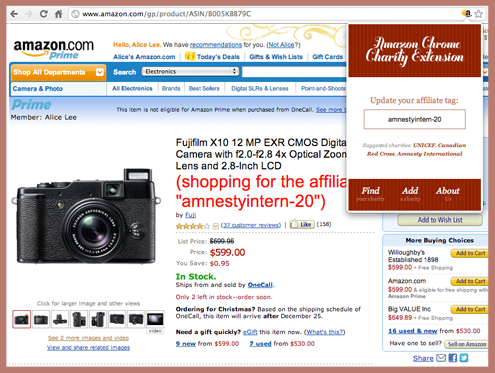
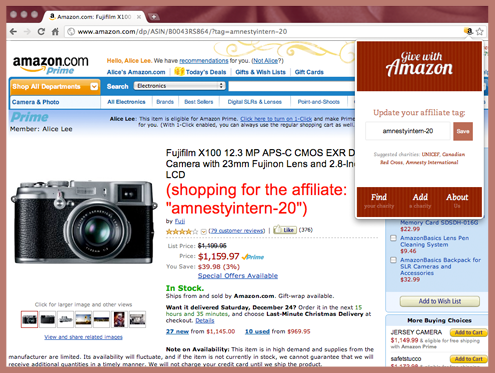
fixed popup stuff / edited copy+images to lobster

diff --git a/index.html b/index.html
@@ -2,7 +2,7 @@
 <html xmlns="http://www.w3.org/1999/xhtml">
 <head>
 <meta http-equiv="Content-Type" content="text/html; charset=UTF-8" />
-<title>Amazon Chrome Charity Extension</title>
+<title>Give with Amazon :: Chrome Charity Extension</title>
 <script type="text/javascript" src="http://use.typekit.com/evt4sfh.js"></script>
 <script type="text/javascript">try{Typekit.load();}catch(e){}</script>
 <link rel="stylesheet" href="slider.css" type="text/css"  />
@@ -18,9 +18,9 @@
     <img src="frontpg/header2.png" style="padding-top:50px;padding-bottom:15px;"/>
 
 	<div class="subheader">
-    	<p>Get your supporters to shop on Amazon as normal, and we help you donate a percentage of their purchases (usually 6-7%) back to your charity through <a style="color:white;" href="https://affiliate-program.amazon.com/">Amazon's affiliate program</a>! Automatically help raise money for your charities and organizations like UNICEF, Red Cross, and more - by shopping on Amazon like you normally would this holiday season. </p>
+    	<p>Get your supporters to shop on Amazon as they normally would this holiday season with this Chrome extension, and we help you donate a percentage of their purchases (usually 6-7%) back to your charity through <a style="color:white;" href="https://affiliate-program.amazon.com/">Amazon's affiliate program</a>! Automatically raise money for your charities like UNICEF, Red Cross, <a style="color:white;" href="options.html">and more</a> - with just a few clicks.</p>
         
-        <div style="width:200px;margin-top: 26px;height: 27px;padding-top:10px; margin-bottom:55px;background-color:#982d1a;">
+        <div class="install">
            <a href="https://chrome.google.com/webstore/detail/lddkddmnfgnkmalojmebjlmekjdkednh/details">
 		   <p style="margin:0px;text-transform:uppercase; vertical-align:middle;">Install</p>
            </a>
@@ -28,10 +28,7 @@
     </div>
         
     <div style="width:970px;">  
-      
       <div class="image">
-
-
         <div class="slider-wrapper theme-default">
             <div id="slider" class="nivoSlider">
                 <img src="frontpg/img1.png" alt="" data-transition="fade"/>
@@ -56,7 +53,7 @@
             <img class="icon" src="frontpg/icon_1.png" />
             <div  class="description">
             	<img src="frontpg/hdr_1.png" />
-                <p>Add the Chrome extension <a href="https://chrome.google.com/webstore/detail/lddkddmnfgnkmalojmebjlmekjdkednh">here</a> and add your charity id to the tag. If you don't know what it is, don't worry - your charity likely already has one, and you can check out our <a href="options.html">public list here</a>.</p>
+                <p class="steps">Add the Chrome extension <a href="https://chrome.google.com/webstore/detail/lddkddmnfgnkmalojmebjlmekjdkednh">here</a> and add your charity id to the tag. Your charity likely already has one, and you can check out our <a href="options.html">public list here</a>.</p>
 
             </div>
         </div>        
@@ -64,16 +61,16 @@
             <img class="icon" src="frontpg/icon_2.png" />
             <div  class="description">
             	<img src="frontpg/hdr_2.png" />
-                <p>Do your holiday online shopping on Amazon as planned. 
-                This time you’ll see a small notice that a portion of your spendings will go to the charity of your choice at the top of each page. </p>
+                <p class="steps">Do your holiday online shopping on Amazon as planned. Don't worry about using an affiliate-specific link - this extension will take care of that. 
+                </p>
             </div>
         </div>
         
         <div class="3 howTo">
             <img  class="icon" src="frontpg/icon_3.png" />
             <div  class="description">
-                <img src="frontpg/hdr_3.png" />
-                <p>A percentage of all of your purchases on Amazon will now go towards the charity or organization that you chose, allowing them to receive affiliate referral payments from Amazon. You can learn more about Amazon's program <a href="https://affiliate-program.amazon.com/">here</a>.</p>
+            	<img src="frontpg/hdr_3.png" />
+                <p class="steps">A percentage of all of your purchases will now go towards the charity or organization that you chose, thanks to <a href="https://affiliate-program.amazon.com/">Amazon's official affiliate program</a>.</p>
             </div>
         </div> 
        </div>
@@ -85,7 +82,7 @@
     </center>
     
 	<br style="clear:both;" />
-    <p style="padding:30px 0px;font-size:10px;">Made by <a href="http://wesleyzhao.com" style="color:#b46657;">Wesley</a>. Site by <a href="http://byalicelee.com" style="color:#b46657;">Alice</a>.</p>
+    <p style="padding:30px 0px;font-size:10px;">Made by <a href="http://wesleyzhao.com" style="color:#b46657;">Wesley</a>. Designed by <a href="http://byalicelee.com" style="color:#b46657;">Alice</a>.</p>
 
 </div>
 </div>

diff --git a/popup.html b/popup.html
@@ -20,55 +20,51 @@
   <body onload="restore_options();" style="text-align:center;">
   <div class="popup">
   <div style="height:100px;">
-  	<img style="padding-top:20px;" src="popup/header.png">
+  	<img style="padding-top:26px;" src="popup/header.png">
   </div>
    
    <div style="padding:10px 0px;background-color:white;height:150px;padding-top: 32px;">
       <p style="font-size:15px;color:#ae5847;margin:0px;padding-bottom:5px;">Update your affiliate tag:</p>
    
    <!--<form action="#" name="myform" onsubmit="save_options_popup()">-->
-    <input type="text" id="tag-input" value=""/>
-    <input type="hidden" id="hidden-session-id" value=""/>
+<input id="tag-input" type="text" value="">
+<input id="hidden-session-id" type="hidden" value="undefined">
     <button class="button" onclick="save_options_popup()">Save</button>
         
                     
     </form>
-   
+    
     <p style="color:#B46657;font-size:10px;"id="saved-message"></p>
-    
-    
-    
-    <div class="centerDiv" style="width:200px;padding-top:10px;">
-    	<p class="greyLink" style="padding-top:0px; margin-top:0px; font-style:italic;font-weight: normal;font-size: 10px; color:grey;" id="charity-loader-link">
-    	Suggested charities: <a>UNICEF</a>, <a>Canadian Red Cross</a>, <a>Amnesty International</a>
-        
-        <!--<a>amnestyintern-20</a>, <a>canadianredcr-20</a>, <a>thcoitupsosy-21</a>-->
-        
-        </p>
-
-    <p id="charity-list">
-
+    <div class="centerDiv" style="width:210px;padding-top:10px;">
+    <p class="greyLink" style="padding-top:0px; margin-top:0px; font-style:italic;font-weight: normal;font-size: 12px; color:grey;" id="charity-loader-link">
+    	Suggested charities: 
+        <span class="charity-tag"><a href="#" onclick="addCharityTagToInput(&quot;thcoitupsosy-21&quot;, &quot;tag-input&quot;)">UNICEF</a></span>, 
+        <span class="charity-tag"><a href="#" onclick="addCharityTagToInput(&quot;amnestyintern-20&quot;, &quot;tag-input&quot;)">Amnesty International</a></span>, 
+        <span class="charity-tag"><a href="#" onclick="addCharityTagToInput(&quot;canadianredcr-20&quot;, &quot;tag-input&quot;)">Red Cross Canada</a></span>
     </p>
     </div>
+    
+    	
+  
 </div>
 
 <div class="centerDiv" style="height:50px;width:250px;padding-top:10px;">
 <center>
 
 <div class="footerKey">
-	<a href="/">
+	<a onclick="openNewPageWithURL('http://givewithamazon.com/options.html')">
     <p class="key">Find</p>
     <p class="subKey">your charity</p>
     </a>
 </div>
 
 <div class="footerKey">
-	<a href="http://bit.ly/AddAmazonCharity"><p class="key">Add</p>
+	<a onclick="openNewPageWithURL('http://bit.ly/AddAmazonCharity')"><p class="key">Add</p>
     <p class="subKey">a charity</p></a>
 </div>
 
 <div class="footerKey">
-	<a href="/">
+	<a onclick="openNewPageWithURL('http://givewithamazon.com')">
     <p class="key">About</p>
     <p class="subKey">Us</p>
     </a>

diff --git a/options.html b/options.html
@@ -1,6 +1,6 @@
 <html>
   <head>
-    <title>Charitable Purchasing Options Page</title>
+	<title>Give with Amazon :: Chrome Charity Extension</title>
     <script type="text/javascript" src="options_save.js"></script>
     <script type="text/javascript" src="jquery-1.6.4.min.js"></script>
     <script type="text/javascript" src="new_charities.js"></script>
@@ -33,7 +33,7 @@
     <div style="background-color: #901D07;width: 400px;height: 1px;margin-top: 50px;margin-bottom:20px;"></div>
     <img src="options/happyholidays.png">
    <p style="color:#b46657;">For more information, check out our <a href="/">site</a>.</p>
-    <p style="font-size:10px; color:#B46657;">Made by <a href="http://wesleyzhao.com">Wesley</a>. Site by <a href="http://byalicelee.com">Alice</a>.</p>
+    <p style="font-size:10px; color:#B46657;">Made by <a href="http://wesleyzhao.com">Wesley</a>. Designed by <a href="http://byalicelee.com">Alice</a>.</p>
     
     </div></div></div>
   </body>

diff --git a/style.css b/style.css
@@ -30,6 +30,11 @@ a:hover {text-decoration:underline;}
 }
 
 
+.install {
+	width:200px;margin-top: 26px;height: 27px;padding-top:10px; margin-bottom:75px;background-color:#982d1a;
+	border:1px solid #A34634;
+}
+
 .description {
 	float:right;
 	width:280px;
@@ -42,14 +47,22 @@ a:hover {text-decoration:underline;}
 	text-align:left;
 	padding-bottom:40px;
 	vertical-align:middle;
+	width:391px;
 }
 
 .howTo a {
 	color:#B46657;
 }
 
-.description p{
+.header {
+  margin-top:0px;
+  font-family: lobster,serif;
+  font-size:20px;
+} 
+
+.steps {
 	font-size:11px;
+	margin-top:5px;
 }
 
 .subheader {
